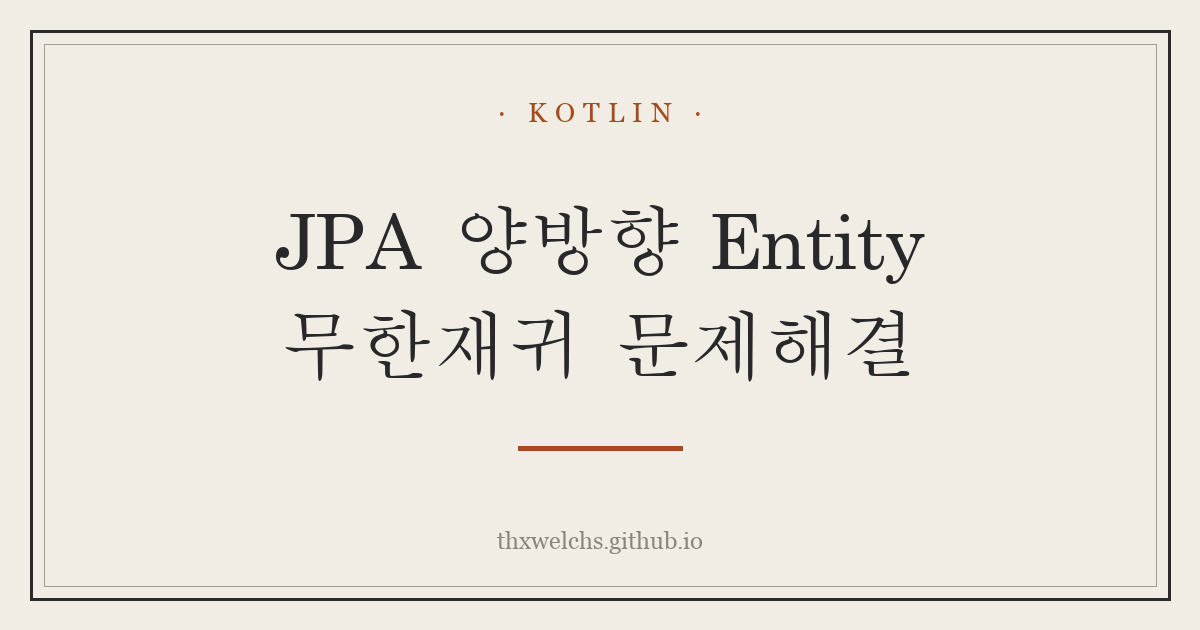
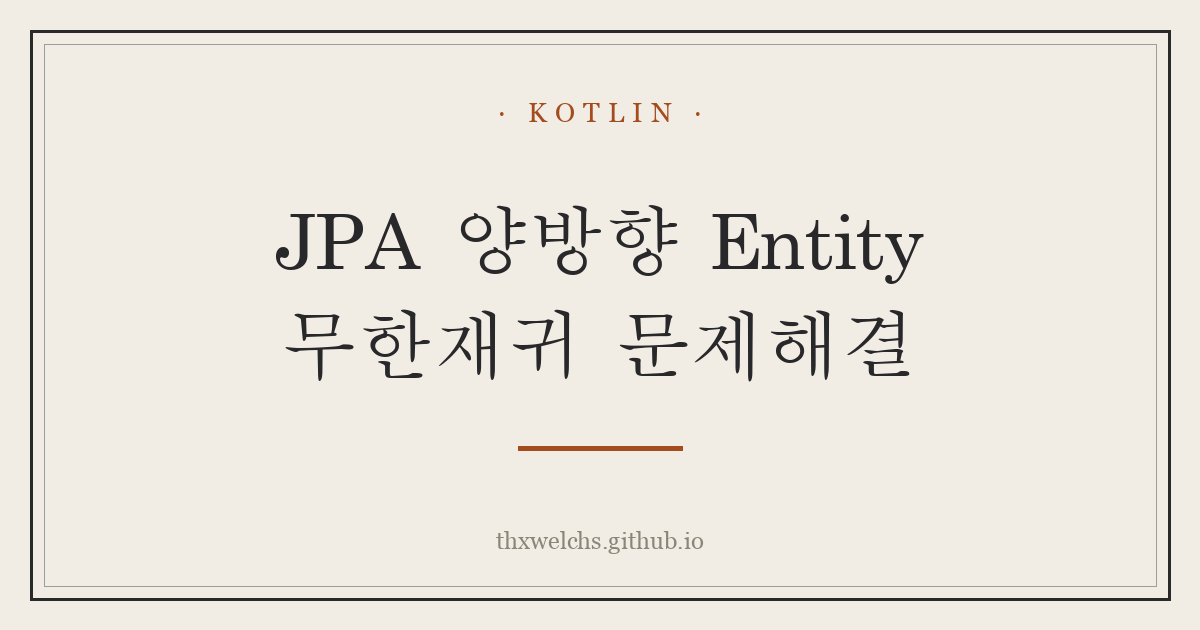
chore: 본문 이미지·커버 갱신, 커버 생성기 한글 라벨 수정

diff --git a/tools/gen_post_covers.py b/tools/gen_post_covers.py
@@ -27,6 +27,8 @@ DOMAIN = "thxwelchs.github.io"
 F_TITLE_EN = "/System/Library/Fonts/Supplemental/Hoefler Text.ttc"
 F_TITLE_KR = "/System/Library/Fonts/Supplemental/AppleMyungjo.ttf"
 F_LABEL = "/System/Library/Fonts/Supplemental/Georgia.ttf"
+# Georgia 에는 한글 글리프가 없어 한글 라벨이 두부(□)로 깨진다. 한글이면 명조로 그린다.
+F_LABEL_KR = "/System/Library/Fonts/Supplemental/AppleMyungjo.ttf"
 
 # 상단 라벨로 우선 쓰는 기술/언어 태그(소문자 매칭). 없으면 tags[0].
 TECH = ["java", "kotlin", "spring", "elasticsearch", "redis", "javascript", "typescript",
@@ -145,13 +147,14 @@ def make_cover(title, label, out):
 
     # 상단 카테고리(· LABEL ·)
     lab = label.upper() if label.isascii() else label
-    lf = font(F_LABEL, 27)
+    lf = font(F_LABEL_KR if has_kr(lab) else F_LABEL, 27)
     track = 8
     lab_w = text_w(d, lab, lf, track)
     dot_gap = 26
     draw_tracked(d, cx, 112, lab, lf, RUST, track)
-    d.text((cx - lab_w / 2 - dot_gap, 112), "·", font=lf, fill=RUST, anchor="mm")
-    d.text((cx + lab_w / 2 + dot_gap, 112), "·", font=lf, fill=RUST, anchor="mm")
+    dotf = font(F_LABEL, 27)
+    d.text((cx - lab_w / 2 - dot_gap, 112), "·", font=dotf, fill=RUST, anchor="mm")
+    d.text((cx + lab_w / 2 + dot_gap, 112), "·", font=dotf, fill=RUST, anchor="mm")
 
     # 제목 (폭+높이 자동 맞춤, 중앙 밴드에 배치)
     tpath = F_TITLE_KR if has_kr(title) else F_TITLE_EN
